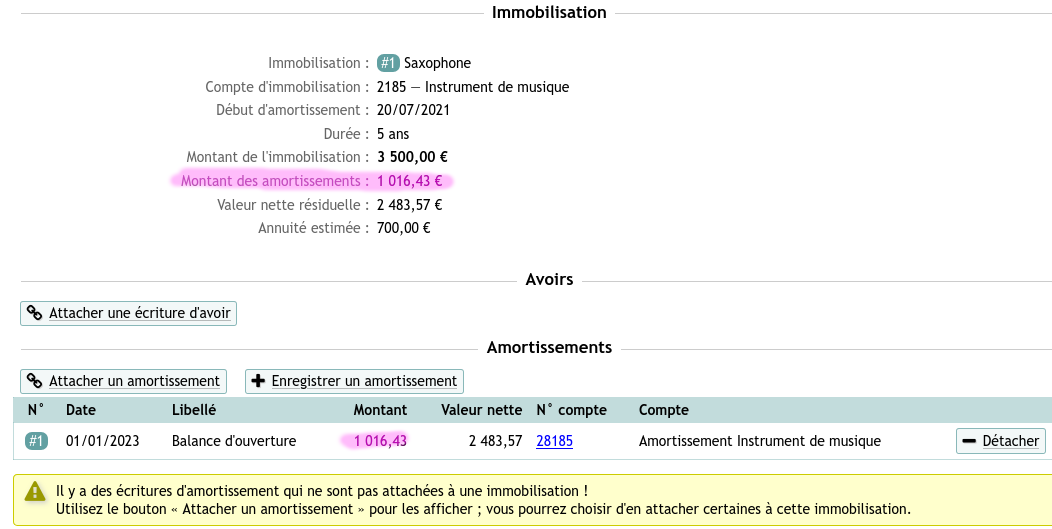
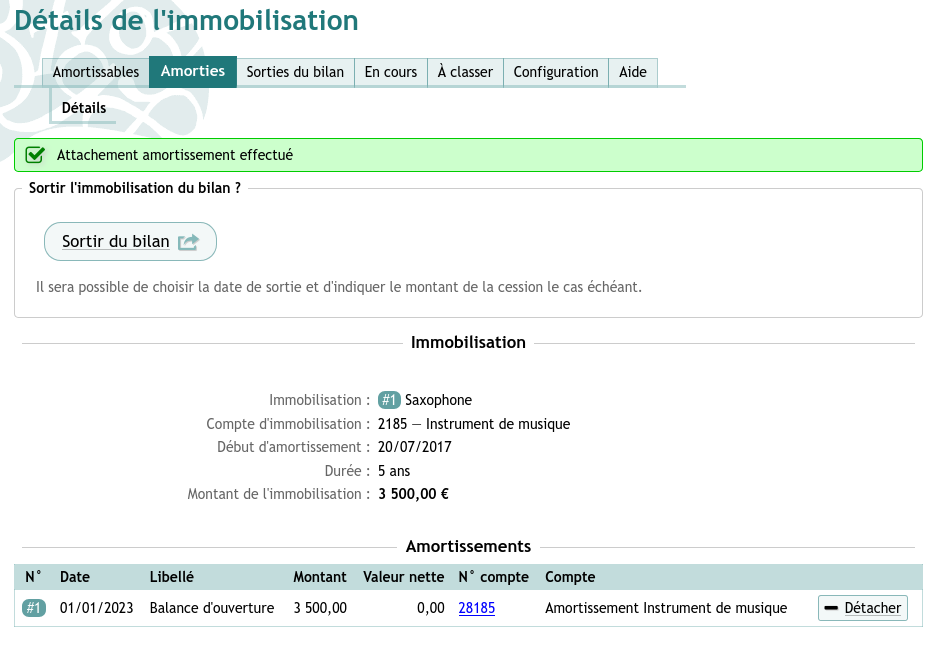
Update from upstream
FossilOrigin-Name: b009c229f1ebb9b7794d55aaec841575ef9e8a83

diff --git a/amortization/doc/aide.html b/amortization/doc/aide.html
@@ -213,13 +213,8 @@ premier exercice créé dans Paheko ; on n’a donc pas à s’en
 <p>L’exemple ci-dessous montre un extrait de la balance d’ouverture du
 premier exercice créé dans Paheko et reprend une partie du bilan du
 dernier exercice d’une comptabilité antérieure à Paheko.</p>
-<figure>
-<img src="./doc/exemple_balance-initiale.png"
-title="Exemple de balance d&#39;ouverture"
-alt="Extrait de balance d’ouverture initiale dans Paheko" />
-<figcaption aria-hidden="true">Extrait de balance d’ouverture initiale
-dans Paheko</figcaption>
-</figure>
+<p><img src="./doc/exemple_balance-initiale.png"
+title="Exemple de balance d&#39;ouverture" /></p>
 <ul>
 <li>la ligne du compte <strong>2181</strong> correspond à deux
 immobilisations de valeurs respectives <strong>5 500€</strong> et
@@ -238,13 +233,8 @@ amortissements des trois immobilisations du compte
 </ul>
 <p>Dans l’onglet <em>À classer</em> on trouve les immobilisations de la
 balance d’ouverture :</p>
-<figure>
-<img src="./doc/exemple_immobilisations_a_classer-1.png"
-title="Immobilisations de la balance initiale à incorporer dans Paheko"
-alt="Immobilisations de la balance initiale à incorporer dans Paheko" />
-<figcaption aria-hidden="true">Immobilisations de la balance initiale à
-incorporer dans Paheko</figcaption>
-</figure>
+<p><img src="./doc/exemple_immobilisations_a_classer-1.png"
+title="Immobilisations de la balance initiale à incorporer dans Paheko" /></p>
 <ul>
 <li>la colonne <em>Date</em> donne la date de la balance
 d’ouverture</li>
@@ -259,13 +249,10 @@ attribué</li>
 2181, cliquer le bouton <em>Paramètres</em>, puis cocher le choix
 « Immobilisation à amortir ».</p>
 <p>Les paramètres sont pré-remplis à partir des données de l’écriture de
-la balance d’ouverture et seront donc à modifier en fonction des données
+la balance d’ouverture et sont donc à modifier en fonction des données
 de l’immobilisation concernée.</p>
-<figure>
-<img src="./doc/exemple_parametres_immobilisation-1.png"
-title="Paramètres a renseigner" alt="Paramètres a renseigner" />
-<figcaption aria-hidden="true">Paramètres a renseigner</figcaption>
-</figure>
+<p><img src="./doc/exemple_parametres_immobilisation-1.png"
+title="Paramètres a renseigner" /></p>
 <ul>
 <li>Date d’acquisition de l’immobilisation</li>
 <li>Libellé de l’immobilisation</li>
@@ -282,31 +269,16 @@ immobilisation</a>.</li>
 </ul>
 <p>Après validation, cette immobilisation se retrouve classée dans les
 immobilisations amortissables :</p>
-<figure>
-<img src="./doc/exemple_immobilisations_amortissables-1.png"
-title="Immobilisations amortissables]"
-alt="Immobilisations amortissables" />
-<figcaption aria-hidden="true">Immobilisations
-amortissables</figcaption>
-</figure>
+<p><img src="./doc/exemple_immobilisations_amortissables-1.png"
+title="Immobilisations amortissables]" /></p>
 <p>et dans l’onglet <em>À classer</em> on trouve le montant affecté à la
 première immobilisation.</p>
-<figure>
-<img src="./doc/exemple_immobilisations_a_classer-2.png"
-title="Immobilisations à incorporer dans Paheko"
-alt="Immobilisations à incorporer dans Paheko" />
-<figcaption aria-hidden="true">Immobilisations à incorporer dans
-Paheko</figcaption>
-</figure>
+<p><img src="./doc/exemple_immobilisations_a_classer-2.png"
+title="Immobilisations à incorporer dans Paheko" /></p>
 <p>On fait de même pour la deuxième immobilisation du compte 2181 puis
 pour les trois immobilisations du compte 2185 et on obtient :</p>
-<figure>
-<img src="./doc/exemple_immobilisations_amortissables-2.png"
-title="Immobilisations amortissables"
-alt="Immobilisations amortissables" />
-<figcaption aria-hidden="true">Immobilisations
-amortissables</figcaption>
-</figure>
+<p><img src="./doc/exemple_immobilisations_amortissables-2.png"
+title="Immobilisations amortissables" /></p>
 <p>et l’onglet <em>À classer</em> est vide.</p>
 <p>Si des amortissements ont été enregistrés pour une ou plusieurs
 immobilisations avant la mise en service du module, on pourra les
@@ -349,58 +321,45 @@ amortissements</em> de ce compte à la date de fin du dernier exercice de
 la comptabilité antérieure à Paheko ; ce montant devra donc <em>être
 réparti entre les différentes immobilisations concernées</em>.</p>
 <p><strong>Exemple :</strong> le montant qui figure dans la balance
-d’ouverture pour le compte 28185 est de 7058,06€ réparti ainsi :</p>
+d’ouverture pour le compte 28185 est de 10627,25€ réparti ainsi :</p>
 <ul>
-<li>montant des amortissements du Saxophone : 1016,43€</li>
+<li>montant des amortissements du Saxophone : 3500,00€</li>
 <li>montant des amortissements du Piano numérique : 4102,39€</li>
-<li>montant des amortissements de la Batterie : 1939,24€</li>
+<li>montant des amortissements de la Batterie : 3024,86€</li>
 </ul>
 <p>Voici la page des détails du Saxophone avant l’attachement des
 amortissements de la balance d’ouverture :</p>
-<figure>
-<img src="./doc/exemple_amortissement-saxo.png"
-title="Page de détails du saxophone"
-alt="Page de détails du saxophone" />
-<figcaption aria-hidden="true">Page de détails du saxophone</figcaption>
-</figure>
+<p><img src="./doc/exemple_amortissement-saxo.png"
+title="Page de détails du saxophone" /></p>
 <p>Cliquer le bouton <em>Attacher un amortissement</em> ; la liste des
 amortissements du compte 28185 s’affiche :</p>
-<figure>
-<img src="./doc/exemple_amortissements_a_repartir.png"
-title="Amortissements du compte 28185"
-alt="Amortissements du compte 28185" />
-<figcaption aria-hidden="true">Amortissements du compte
-28185</figcaption>
-</figure>
+<p><img src="./doc/exemple_amortissements_a_repartir.png"
+title="Amortissements du compte 28185" /></p>
 <p>Sur la page qui s’ouvre quand on clique <em>Attacher</em>, il faut
-modifier le montant affiché (7058,06) en indiquant le montant des
-amortissements de l’immobilisation (1016,43).</p>
-<figure>
-<img src="./doc/exemple_saisie-amortissement-saxo.png"
-title="Saisie du montant de l&#39;amortissement"
-alt="Saisie du montant de l’amortissement" />
-<figcaption aria-hidden="true">Saisie du montant de
-l’amortissement</figcaption>
-</figure>
+modifier le montant affiché (10627,25) en indiquant le montant des
+amortissements de l’immobilisation (3500).</p>
+<p><img src="./doc/exemple_saisie-amortissement-saxo-1.png" alt="Montant de l'amortissement à modifier" style="border: 1px solid grey;"> 
+<img src="./doc/exemple_saisie-amortissement-saxo-2.png" alt="Montant de l'amortissement à modifier" style="border: 1px solid grey;"></p>
 <p>De retour sur la page des amortissements, on constate la présence de
 l’écriture d’amortissement qu’on vient d’attacher ; on peut détacher une
 écriture si on s’est trompé.</p>
-<figure>
-<img src="./doc/exemple_amortissement-saxo-2.png"
-title="Page de détails du saxophone"
-alt="Page de détails du saxophone" />
-<figcaption aria-hidden="true">Page de détails du saxophone</figcaption>
-</figure>
+<p>On peut aussi remarquer que l’immobilisation est totalement amortie
+et est classée dans l’onglet des immobilisations amorties ; on constate
+que sa valeur nette est bien égale à 0.</p>
+<p><img src="./doc/exemple_amortissement-saxo-2.png"
+title="Page de détails du saxophone" /></p>
 <p>On peut faire de même pour les amortissements des autres
 immobilisations du compte 2185 (Batterie et Piano) puis pour celles du
-compte 2181 et l’on obtient :</p>
-<figure>
-<img src="./doc/exemple_immobilisations_amortissables-3.png"
-title="Immobilisations et amortissements après incorporation"
-alt="Immobilisations et amortissements après incorporation" />
-<figcaption aria-hidden="true">Immobilisations et amortissements après
-incorporation</figcaption>
-</figure>
+compte 2181.</p>
+<p><strong>Exemple du piano :</strong></p>
+<p><img src="./doc/exemple_amortissement-piano.png"
+title="Page de détails du piano" /></p>
+<p>Pour finir on obtient :</p>
+<p><img src="./doc/exemple_immobilisations_amortissables-3.png"
+title="Immobilisations et amortissements après incorporation" /></p>
+<p>et :</p>
+<p><img src="./doc/exemple_immobilisations_amortissables-4.png"
+title="Immobilisation totalement amortie" /></p>
 <p>Les immobilisations et amortissements de la balance d’ouverture
 initiale ont été incorporés en totalité dans le module.</p>
 <p>Par la suite, pour créer de nouveaux amortissements, il suffit de
@@ -446,13 +405,8 @@ pas amortissables, mais sont destinées à être groupées pour former une
 nouvelle immobilisation qui pourra être amortie.</p>
 <p>Pour ce faire, cocher les lignes à grouper puis cliquer
 <em>Transférer</em>.</p>
-<figure>
-<img src="./doc/exemple_immobilisations_en-cours-1.png"
-title="Immobilisations en cours de constitutions"
-alt="Immobilisations en cours de constitutions" />
-<figcaption aria-hidden="true">Immobilisations en cours de
-constitutions</figcaption>
-</figure>
+<p><img src="./doc/exemple_immobilisations_en-cours-1.png"
+title="Immobilisations en cours de constitutions" /></p>
 <p>Sur la page qui s’ouvre, saisir les données de la nouvelle
 immobilisation :</p>
 <ul>

diff --git a/amortization/link_immo.html b/amortization/link_immo.html
@@ -4,6 +4,8 @@
 	Lister les écritures au crédit du compte de l'immobilisation
 	paramètre et proposer de les attacher à l'immo paramètre
 	@param immo_doc_id : document associé à l'immo
+	@param filter : si vrai ne montrer que les écritures du compte de l'immobilisation (et sous-comptes)
+		dans le cas contraire, montrer les écritures du compte d'immo à deux chiffres (et sous-comptes)
  *}}
 
 {{:include file="_get_immo_data.html" immo_doc_id=$_GET.immo_doc_id|intval keep="info_immo, ligne_immo, message"}}
@@ -54,7 +56,7 @@
 	INNER JOIN acc_accounts AS account ON account.id = line.id_account
 	INNER JOIN acc_years AS y ON y.id = trans.id_year
 	WHERE account.code LIKE :account_code AND credit > 0
-	AND trans.date >= :date_immo
+	AND trans.date > :date_immo
 	AND credit_line_id NOT IN (
 		SELECT json_extract(link.document, '$.credit_line_id') AS credit_line_id FROM !table as link
 		WHERE json_extract(link.document, '$.type') == "credit_link"
@@ -84,20 +86,22 @@
 }}
 {{/if}}
 
-<nav class="tabs">
-	<ul>
-		<li {{if $_GET.filter}}class="current"{{/if}}>
-			<a href="link_immo.html?immo_doc_id={{$_GET.immo_doc_id}}{{if $dialog}}&_dialog{{/if}}&filter=true&from={{$_GET.from}}">
-				Compte {{$ligne_immo.account_code}} et sous-comptes
-			</a>
-		</li>
-		<li {{if ! $_GET.filter}}class="current"{{/if}}>
-			<a href="link_immo.html?immo_doc_id={{$_GET.immo_doc_id}}{{if $dialog}}&_dialog{{/if}}&from={{$_GET.from}}">
-				Compte {{$ligne_immo.account_code|substr:0:2}} et sous-comptes
-			</a>
-		</li>
-	</ul>
-</nav>
+{{if $ligne_immo.account_code|substr:0:2 != $ligne_immo.account_code}}
+	<nav class="tabs">
+		<ul>
+			<li {{if $_GET.filter}}class="current"{{/if}}>
+				<a href="link_immo.html?immo_doc_id={{$_GET.immo_doc_id}}{{if $dialog}}&_dialog{{/if}}&filter=true&from={{$_GET.from}}">
+					Compte {{$ligne_immo.account_code}} et sous-comptes
+				</a>
+			</li>
+				<li {{if ! $_GET.filter}}class="current"{{/if}}>
+					<a href="link_immo.html?immo_doc_id={{$_GET.immo_doc_id}}{{if $dialog}}&_dialog{{/if}}&from={{$_GET.from}}">
+						Compte {{$ligne_immo.account_code|substr:0:2}} et sous-comptes
+					</a>
+				</li>
+		</ul>
+	</nav>
+{{/if}}
 
 <section class="immobilisation">
 	<div class="informations">
@@ -146,7 +150,11 @@
 			<p class="help">Sélectionner une écriture d'avoir ou autre réduction du montant de l'acquisition pour l'associer à l'immobilisation</p>
 		</table>
 	{{else}}
-		<p class="block alert">Aucune écriture au crédit du compte « {{$ligne_immo.account_code}} »</p>
+		{{if $_GET.filter}}
+			<p class="block alert">Aucune écriture au crédit du compte {{$ligne_immo.account_code}} et sous-comptes</p>
+		{{else}}
+			<p class="block alert">Aucune écriture au crédit du compte {{$ligne_immo.account_code|substr:0:2}} et sous-comptes</p>
+		{{/if}}
 	{{/if}}
 </section>
 {{:form_errors}}

diff --git a/amortization/_immobilisations_autres.html b/amortization/_immobilisations_autres.html
@@ -32,7 +32,7 @@
 {{if $module.table != null}}
 	{{:assign columns="$$.status as status, SUM($$.amount) as amount,"}}
 	{{:assign table_join="LEFT JOIN !table AS info ON $$.line = line.id"}}
-	{{:assign doc_condition="($$.status IS NULL OR $$.status == 'managed' OR $$.status == 'ignored')"}}
+	{{:assign doc_condition="($$.status IS NULL OR $$.status == 'managed' OR $$.status == 'ignored' OR $$.status == 'amortized')"}}
 {{else}}
 	{{:assign columns=""}}
 	{{:assign table_join=""}}
@@ -102,11 +102,11 @@
 			{{:continue}}
 		{{/if}}
 	{{/if}}
-	{{if $status == null}}
+	{{if $immo_line.status == null}}
 		{{:assign nb_null="%d+1"|math:$nb_null}}
-	{{elseif $status == 'managed'}}
+	{{elseif $immo_line.status == 'managed'}}
 		{{:assign nb_managed="%d+1"|math:$nb_managed}}
-	{{elseif $status == 'ignored'}}
+	{{elseif $immo_line.status == 'ignored'}}
 		{{:assign nb_ignored="%d+1"|math:$nb_ignored}}
 	{{else}}
 		{{:assign nb_other="%d+1"|math:$nb_other}}

diff --git a/amortization/modify_infos.html b/amortization/modify_infos.html
@@ -167,3 +167,11 @@
 </form>
 
 {{:admin_footer}}
+
+<script type="text/javascript">
+(function () {
+	document.getElementById('f_date_achat').addEventListener("change", (e) => {
+		document.getElementById('f_date_mes').value = document.getElementById('f_date_achat').value;
+	});
+})();
+</script>

diff --git a/amortization/index.html b/amortization/index.html
@@ -21,7 +21,7 @@
 {{:include file="_nav.html" current=$type_immo}}
 
 {{* Mise à niveau *}}
-{{:assign module_version="0.40.0"}}
+{{:assign module_version="0.40.2"}}
 {{:include file="upgrade.html" module_version=$module_version}}
 
 {{* supprimer les documents sans écriture associée *}}
